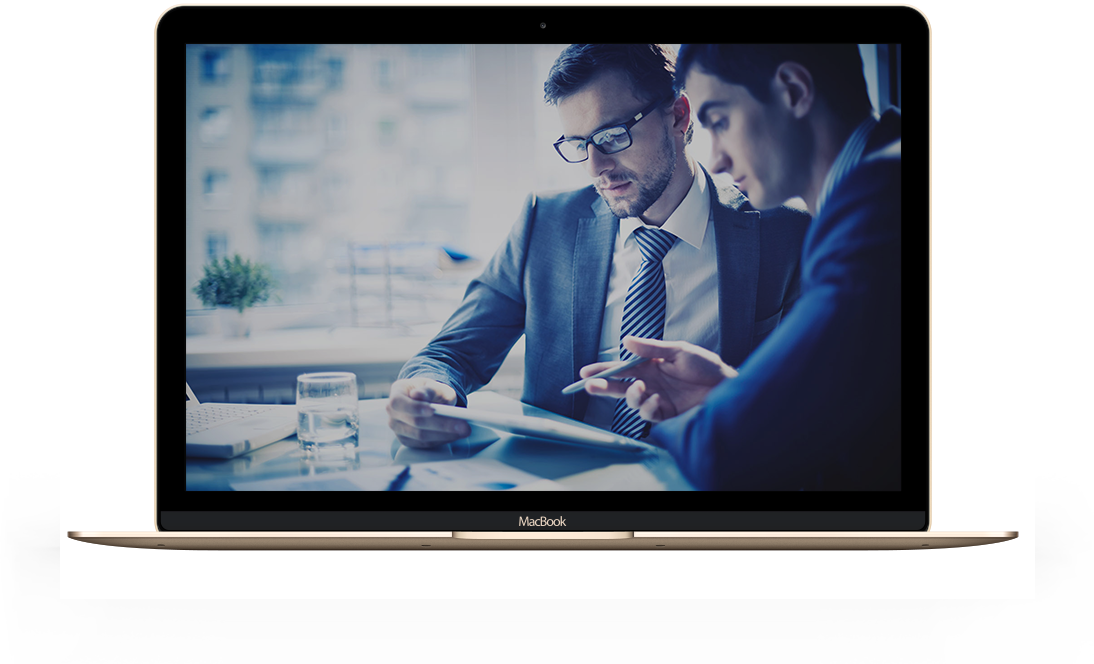
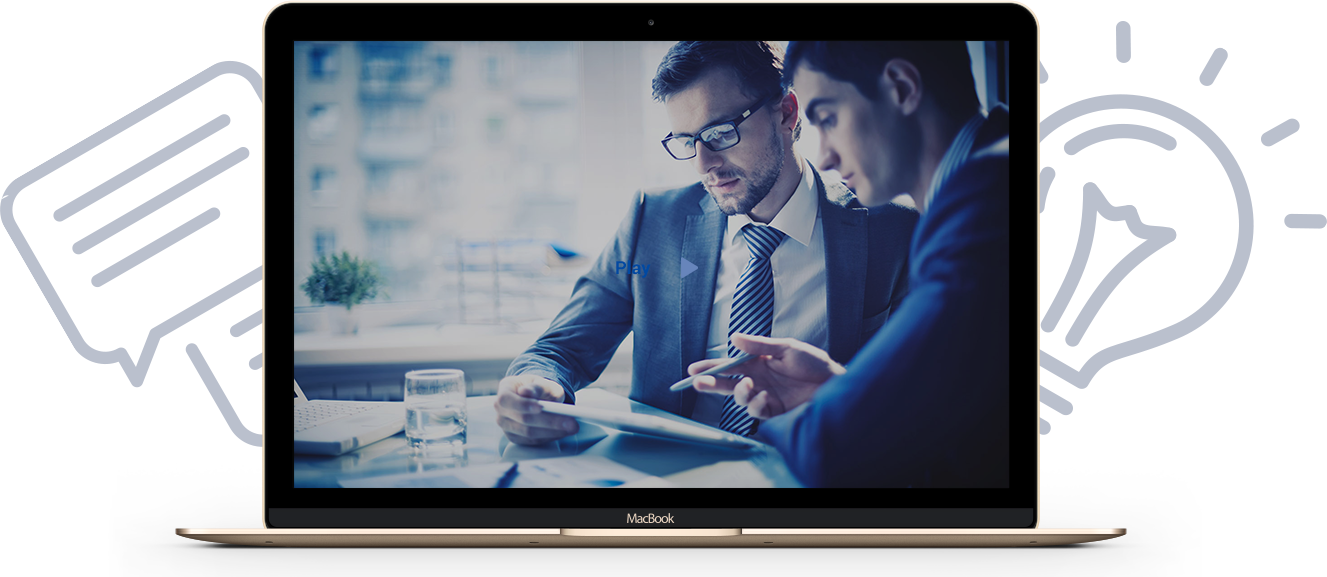
CSS++

diff --git a/index.html b/index.html
@@ -12,6 +12,7 @@
      
 </head>
 <body>
+          <!-- //////////////////////////////////// -->
      <header class="page-header">
           <div class="page-header">
                <a href="#" class="logo">
@@ -34,46 +35,50 @@
                </ul>
           </div>
      </header>
+     <!-- //////////////////////////////////// -->
      <section class="page-section first-section">
-          <header class="section-header">
-               <h1>Check our creativity</h1>
-               <p>We are the best and we know it!</p>
-          </header>
-          <section class="intro-with-btn">
-               <a href="#" class="btn btn-primary">Ask for price</a>
-          </section>
-          <section class="intro-video">
-               <img src="#" alt="Lorem ipsum dolor.">
-               <a href="" class="btn btn-default">
-                    Play
-                    <span class="play-icon"></span>
-               </a>
-          </section>
+          <div class="container">
+               <header class="section-header">
+                    <h1>Check our creativity</h1>
+                    <p>We are the best and we know it!</p>
+               </header>
+               <section class="intro-with-btn">
+                    <a href="#" class="btn btn-primary">Ask for price</a>
+               </section>
+               <section class="intro-video">
+                    <img src="img/video-img.png" alt="Lorem ipsum dolor.">
+                    <a href="#" class="btn btn-default">
+                         <span class="white">Play</span>
+                         <span class="play-icon"><img src="img/play-arrow.png" alt="play button"></span>
+                    </a>
+               </section>
+          </div>
           <section class="image-boxes">
                <div class="container">
                     <div class="item-box">
-                         <img src="#" alt="Lorem ipsum dolor.">
+                         <img src="img/ms-div-1.png" alt="Lorem ipsum dolor.">
                          <h3>lorem3</h3>
                          <p>Lorem ipsum dolor sit amet, consectetur adipisicing elit. Incidunt accusamus sunt asperiores itaque temporibus.</p>
                     </div>
                     <div class="item-box">
-                         <img src="#" alt="Lorem ipsum dolor.">
+                         <img src="img/crc-div-2.png" alt="Lorem ipsum dolor.">
                          <h3>lorem3</h3>
                          <p>Lorem ipsum dolor sit amet, consectetur adipisicing elit. Incidunt accusamus sunt asperiores itaque temporibus.</p>
                     </div>
                     <div class="item-box">
-                         <img src="#" alt="Lorem ipsum dolor.">
+                         <img src="img/bulb-div3.png" alt="Lorem ipsum dolor.">
                          <h3>lorem3</h3>
                          <p>Lorem ipsum dolor sit amet, consectetur adipisicing elit. Incidunt accusamus sunt asperiores itaque temporibus.</p>
                     </div>
                     <div class="item-box">
-                         <img src="#" alt="Lorem ipsum dolor.">
+                         <img src="img/mon-div-3.png" alt="Lorem ipsum dolor.">
                          <h3>lorem3</h3>
                          <p>Lorem ipsum dolor sit amet, consectetur adipisicing elit. Incidunt accusamus sunt asperiores itaque temporibus.</p>
                     </div>
                </div>
           </section>
      </section>
+          <!-- //////////////////////////////////// -->
      <section class="main-section">
           <section class="page-section color-section">
                <header class="section-header">
@@ -92,6 +97,7 @@
           </section>
           <a href="#" class="btn btn-white">Ask for price</a>
      </section>
+          <!-- //////////////////////////////////// -->
      <section class="section-comments">
           <section class="comments-container">
                <img src="#" alt="Lorem ipsum dolor.">
@@ -111,6 +117,7 @@
                </div>
           </section>
      </section>
+          <!-- //////////////////////////////////// -->
      <section class="team-members-section">
           <header class="team-members-header">
                <h1>Meet our team</h1>
@@ -140,9 +147,11 @@
           </section>
           <a href="#" class="btn btn-primary">Ask for price</a>
      </section>
+          <!-- //////////////////////////////////// -->
      <section class="google-maps">
           <!-- GOOGLE MAP HERE WIDTH 100% -->
      </section>
+          <!-- //////////////////////////////////// -->
      <footer class="page-footer">
           <section class="links">
                <div class="link-columns">
@@ -188,6 +197,7 @@
           </section>
           <p>Lorem ipsum dolor sit amet, consectetur adipisicing elit. Odio temporibus, itaque beatae sit natus eum esse at voluptate.</p>
      </footer>
+          <!-- //////////////////////////////////// -->
 
 
 

diff --git a/css/style.css b/css/style.css
@@ -20,13 +20,13 @@ a:link {
      text-decoration: none;
 }
 
-a:visited {
+.menu-items > li > a:visited {
      color: #5d6981;
      opacity: 0.9;
 }
 
 a:hover {
-     opacity: 0.8;
+     opacity: 0.92;
 }
 
 a:active {
@@ -49,6 +49,7 @@ a:active {
      display: flex;
      justify-content: space-between;
      font-size: 20px;
+     z-index: 10;
 }
 
 header.page-header {
@@ -60,31 +61,30 @@ header.page-header {
 }
 
 .logo {
-     padding-top: 47px;
+     padding: 20px;
 }
 
 .page-header .menu-items li {
      display: inline-block;
      list-style: none;
-     margin-left: 45px;
-     padding-top: 43px;
-     padding-bottom: 43px;
+     margin: 16px 25px;
      font-size: 20px;
+     font-weight: 400;
+     padding-top: 10px;
 }
 
 .page-header .menu-items li .active {
      border: 1px solid #5d6981;
      padding: 10px 17px;
-     border-radius: 37%;
-     width: 112px;
+     border-radius: 40px;
 }
 
 .page-header .menu-items li.menu-icon {
-     margin-left: 0px;
+     margin: 0px;
 }
 
 .fb-icon {
-     margin-left: 50px;
+     margin-left: 20px;
 }
 
 .fa-facebook-f {
@@ -119,12 +119,153 @@ header.page-header {
 
  */
 
- .page-section, .first-section {
+.page-section, .first-section {
      width: 1170px;
-     margin: 140px auto 0px;
- }
+     margin: 110px auto 0px;
+     display: flex;
+     justify-content: center;
+     flex-wrap: wrap;
+}
 
- h1 {
-      margin: 0;
- }
+.first-section .container {
+     margin: 30px 0 0;
+     text-align: center;
+}
 
+.container .section-header > h1 {
+     color: #0149a1;
+     font-size: 4.2em;
+     margin: 0;
+}
+
+.container .section-header > p {
+     font-size: 2em;
+}
+
+.first-section .container .section-header {
+     margin-bottom: 6em;
+}
+
+.intro-with-btn {
+     margin-bottom: 6em;
+}
+
+.btn, .btn-primary {
+     background-color: #ff2d55;
+     padding: 14px 35px;
+     border-radius: 40px;
+     font-size: 14px;
+     color: #fff;
+}
+
+.intro-video {
+     position: relative;
+}
+
+.first-section > .container > .intro-video { 
+     justify-content: center;
+     display: flex
+}
+
+.first-section > .container > .intro-video > .btn {
+     position: absolute;
+     top: 18em;
+     text-align: center;
+     background-color: white;
+     color: #000;
+}
+
+.white {
+     font-size: 14px;
+     font-weight: bold;
+     color: #0149a1;
+     padding-right: 20px;
+}
+
+.play-icon {
+     position: absolute;
+     top: 11px;
+     right: 20px;
+}
+
+.image-boxes .container {
+     display: flex;
+     padding-top: 90px;
+     flex-basis: 25%;
+
+}
+
+.item-box {
+     width: 25%;
+     margin-right: 1em;
+}
+
+.image-boxes .container h3 {
+     font-size: 30px;
+     font-weight: bold;
+     text-transform: capitalize;
+     padding-top: 36px;
+}
+
+.image-boxes .container .item-box:nth-child(2) h3 {
+     padding-top: 30px;
+}
+
+.image-boxes .container .item-box:nth-child(3) h3 {
+     padding-top: 32px;
+}
+
+.image-boxes .container .item-box:nth-child(4) h3 {
+     padding-top: 27px;
+}
+
+.image-boxes .container .item-box:nth-child(4) img {
+     padding-top: 18px;
+}
+
+.image-boxes .container p {
+     font-size: 18px;
+     font-weight: 100;
+     text-transform: capitalize;
+     padding-top: 30px;
+}
+
+
+ /*
+
+          FIRST-SECTION ENDS
+
+ */
+
+
+
+ /*
+
+          MAIN SECTION
+
+ */
+
+
+.main-section .color-section {
+     height: 610px;
+     width: 100%;
+     position: relative;
+}
+
+.main-section .color-section .section-header {
+     width: 100%;
+     height: auto;
+     background-image: url("/img/main-section-back.png");
+     background-position: center;
+     background-repeat: no-repeat;
+     background-size: cover;
+     display: flex;
+     justify-content: center;
+}
+
+.main-section .color-section .section-header a.btn-blue {
+     position: absolute;
+     background-color: #0149a1;
+     top: 380px;
+     box-shadow: 0px 0px 220px 91px rgba(255,255,255,1);
+}
